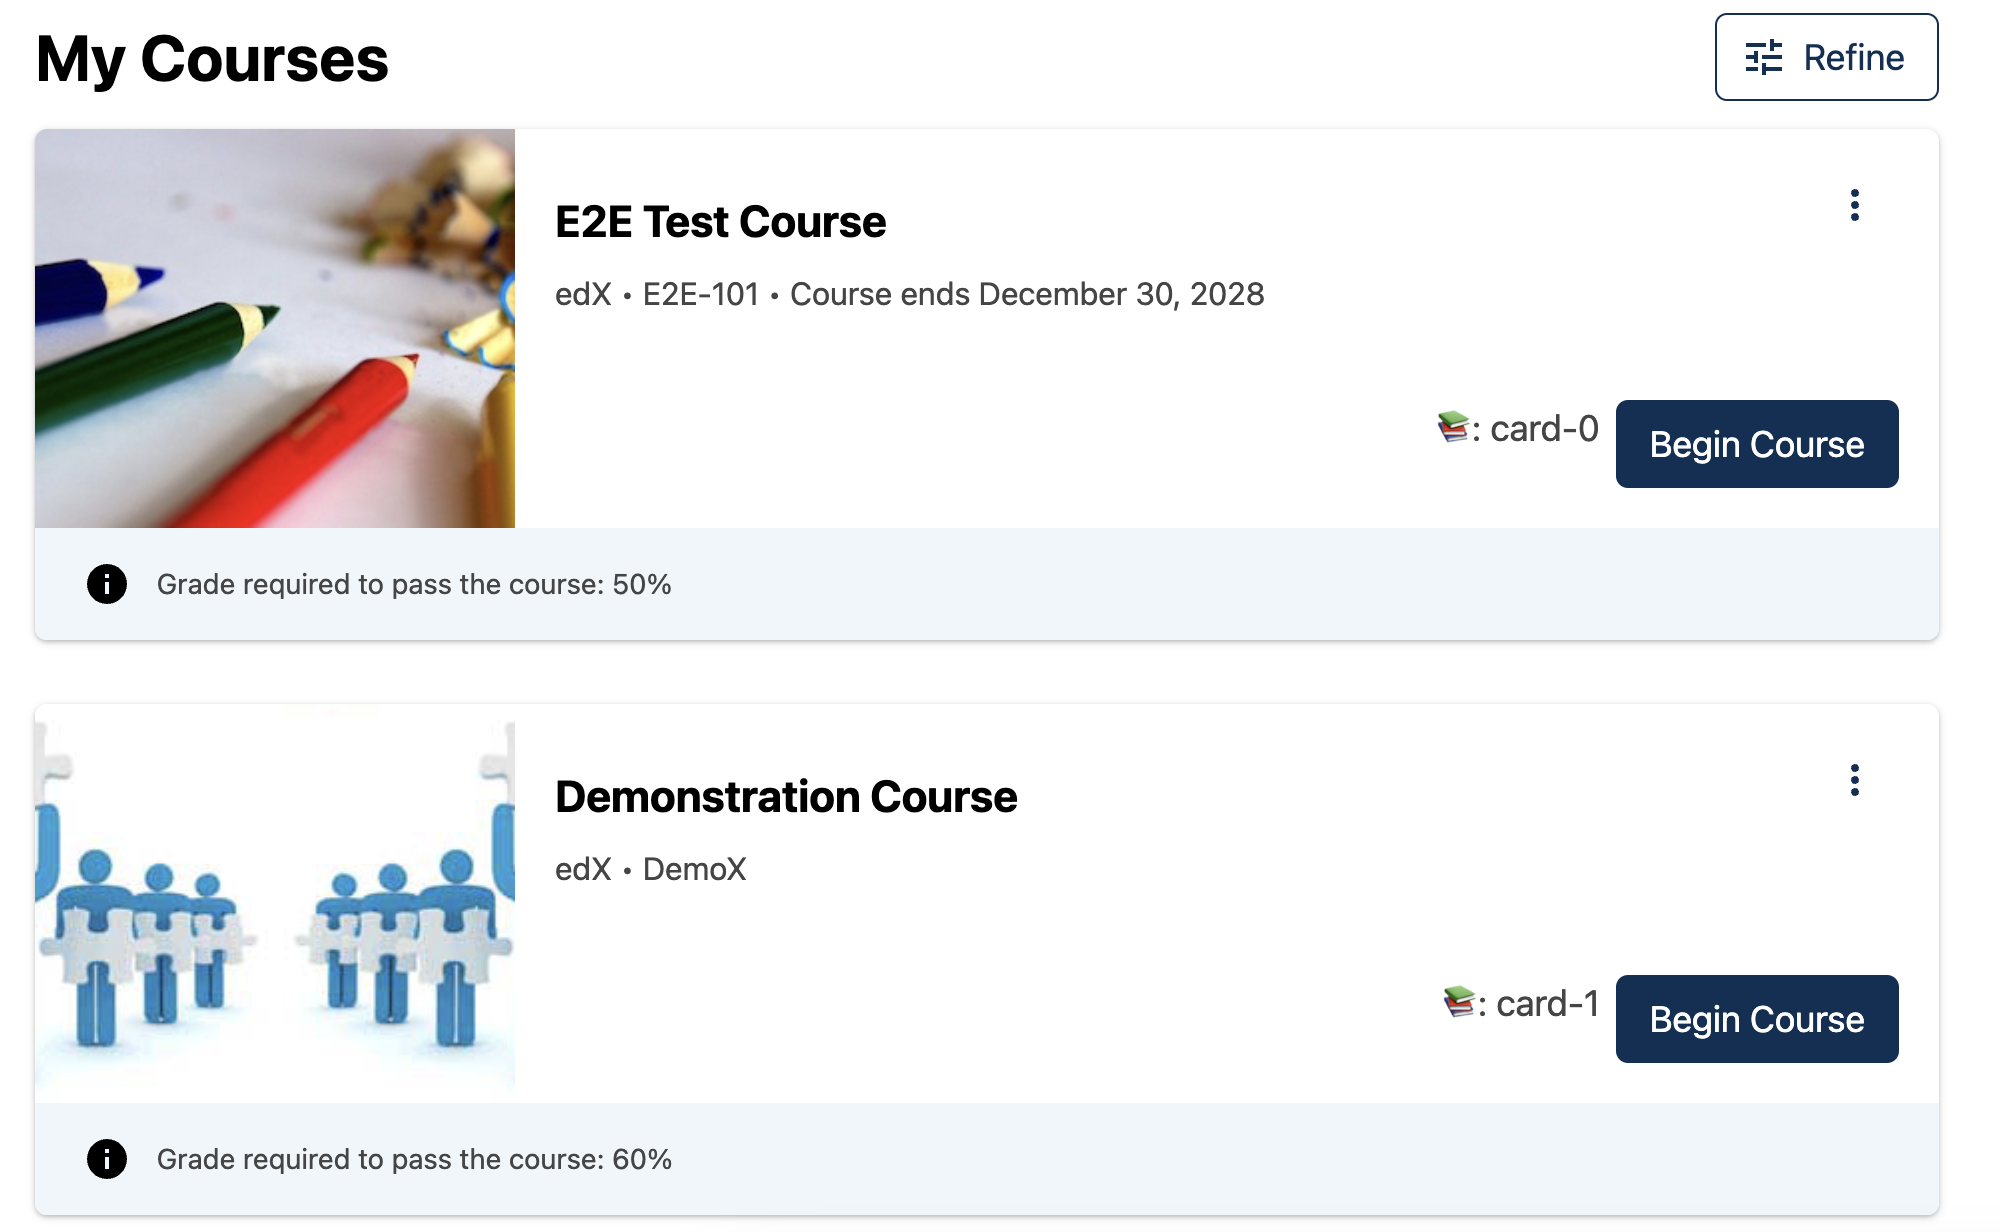
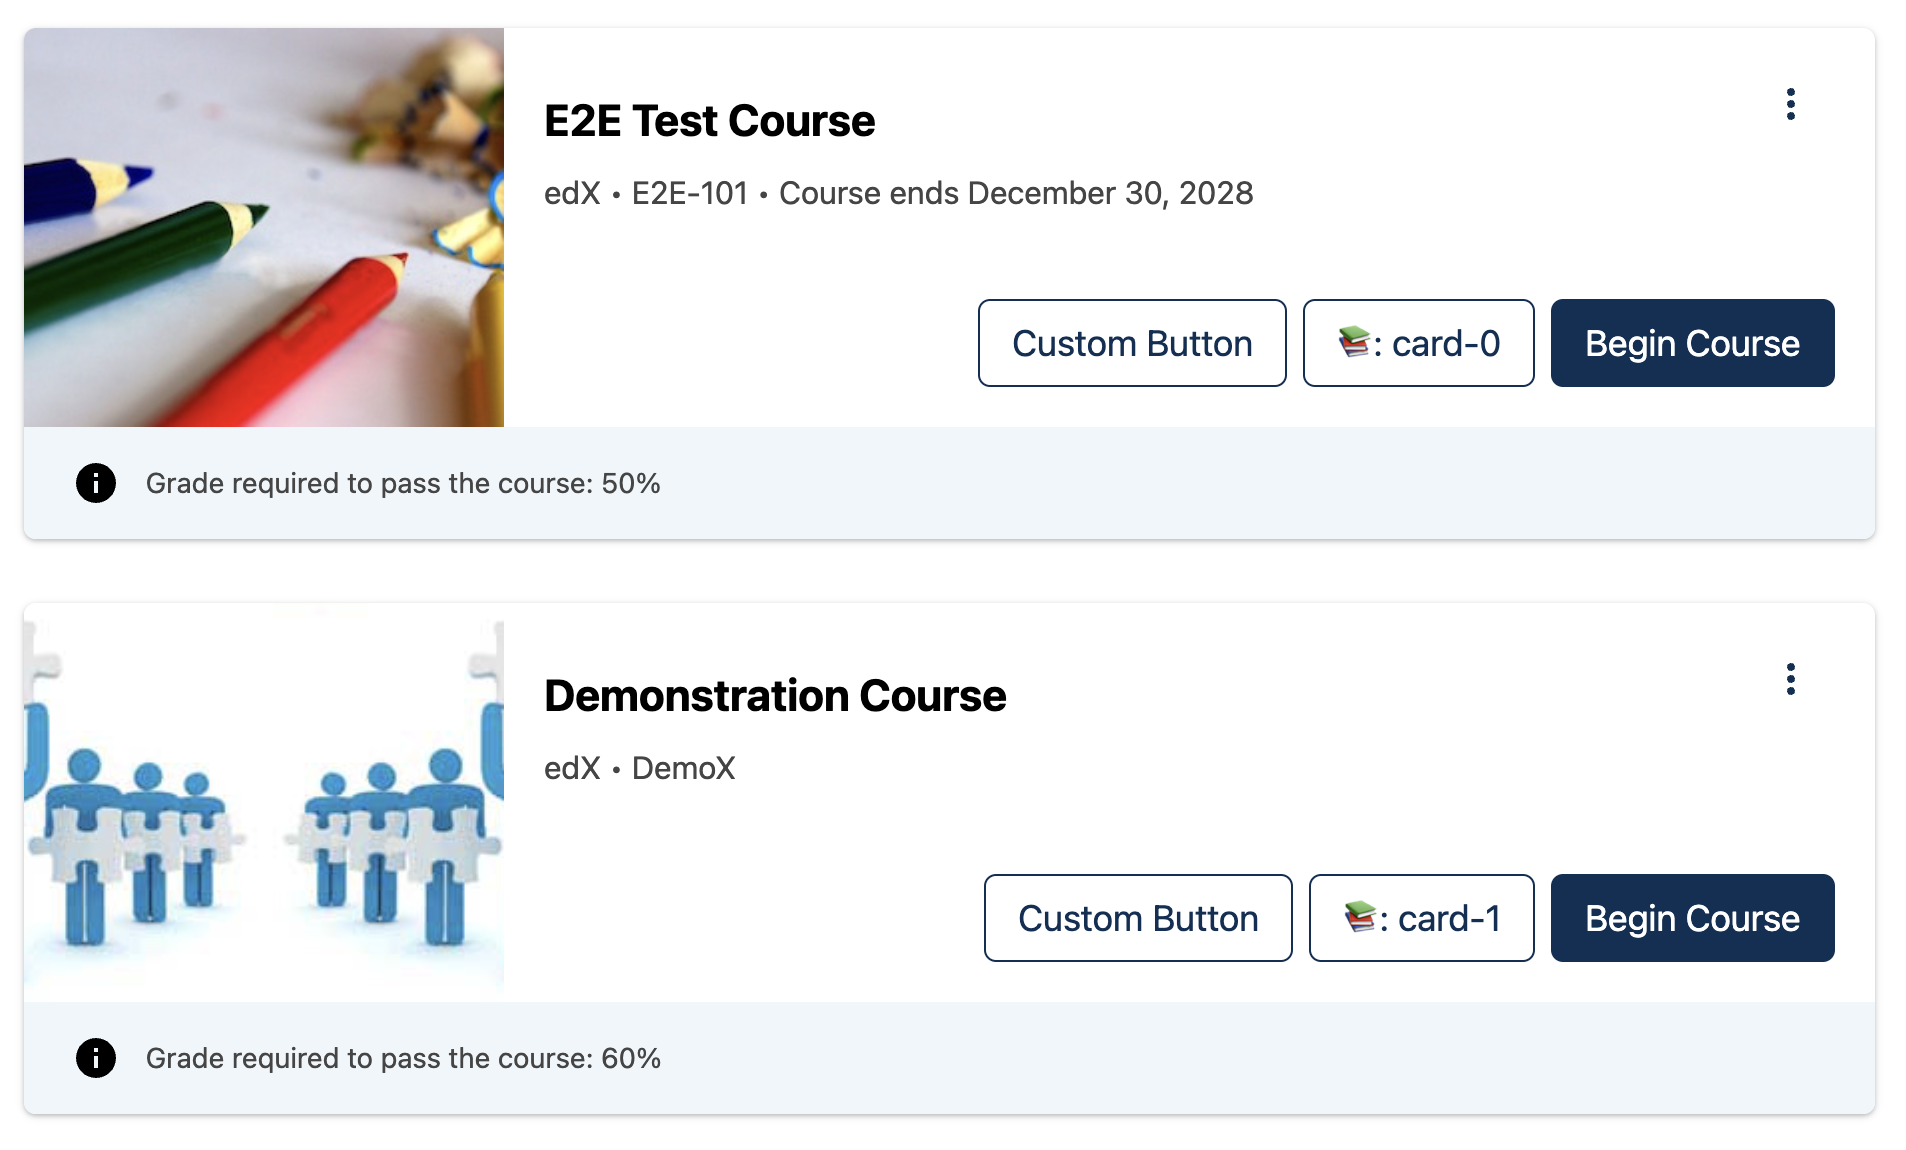
docs: improve the image example for course card slot

diff --git a/src/plugin-slots/CourseCardActionSlot/README.md b/src/plugin-slots/CourseCardActionSlot/README.md
@@ -16,6 +16,7 @@ The following `env.config.jsx` will render the `cardId` of the course as `<p>` e
 
 ```js
 import { DIRECT_PLUGIN, PLUGIN_OPERATIONS } from '@openedx/frontend-plugin-framework';
+import ActionButton from 'containers/CourseCard/components/CourseCardActions/ActionButton';
 
 const config = {
   pluginSlots: {
@@ -23,17 +24,36 @@ const config = {
       keepDefault: false,
       plugins: [
         {
-          // Insert custom content after course card buttons
+          // Insert Custom Button in Course Card
           op: PLUGIN_OPERATIONS.Insert,
           widget: {
             id: 'custom_course_card_action',
+            priority: 60,
             type: DIRECT_PLUGIN,
             RenderWidget: ({cardId}) => (
-              <div>
-                <p>📚: {cardId}</p>
-              </div>
+              <ActionButton
+                variant="outline-primary"
+              >
+                Custom Button
+              </ ActionButton>
             ),
           },
+        },
+          {
+            // Insert Another Button in Course Card
+            op: PLUGIN_OPERATIONS.Insert,
+            widget: {
+              id: 'another_custom_course_card_action',
+              priority: 70,
+              type: DIRECT_PLUGIN,
+              RenderWidget: ({cardId}) => (
+                <ActionButton
+                  variant="outline-primary"
+                >
+                  📚: {cardId}
+                </ ActionButton>
+              ),
+            },
         },
       ]
     }
